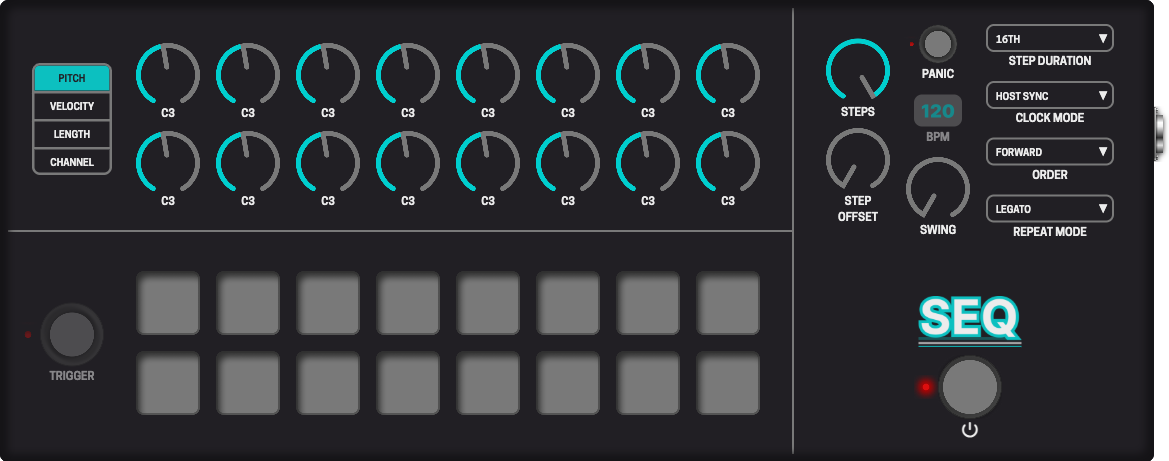
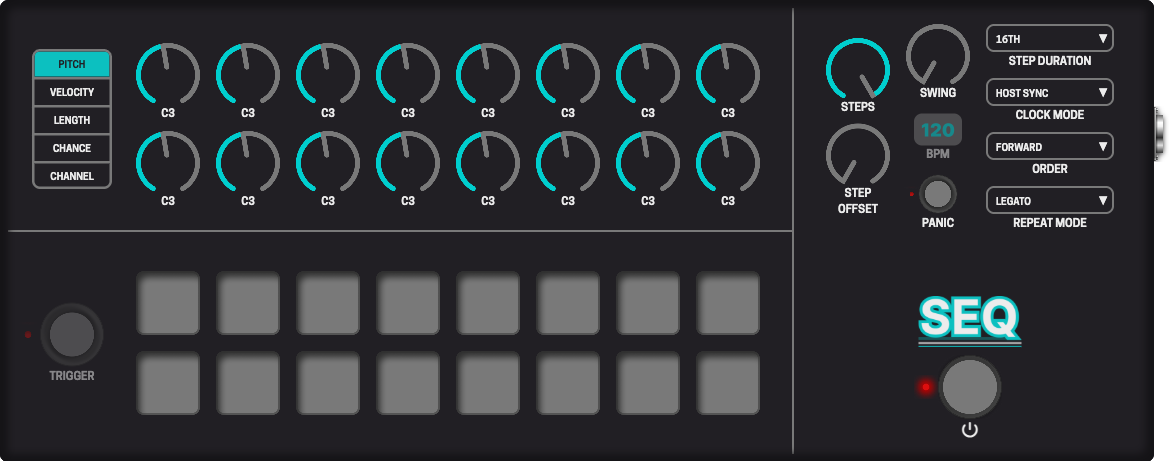
Reorder parameters in UI

Changed region(s): [[0.7083, 0.0304, 0.9547, 0.5163], [0.0308, 0.0911, 0.0924, 0.4252]]

diff --git a/lv2/dm-Seq.lv2/modgui/icon-dm-seq.html b/lv2/dm-Seq.lv2/modgui/icon-dm-seq.html
@@ -1256,7 +1256,7 @@
       </div>
     </div>
     <div class="column global-controls">
-      <div class="row gap-16 flex-1">
+      <div class="row gap-16">
         <div class="column align-self-center">
           <div class="mod-knob">
             <div
@@ -1276,15 +1276,13 @@
           </div>
         </div>
         <div class="column">
-          <div>
+          <div class="mod-knob">
             <div
-              class="mod-footswitch panic"
+              class="mod-knob-image"
               mod-role="input-control-port"
-              mod-port-symbol="panic"
-            >
-              <div class="mod-light"></div>
-            </div>
-            <div class="mod-param-title">PANIC</div>
+              mod-port-symbol="swing"
+            ></div>
+            <div class="mod-param-title">SWING</div>
           </div>
           <div class="mod-number-input">
             <div
@@ -1294,13 +1292,15 @@
             ></div>
             <div class="mod-param-title">BPM</div>
           </div>
-          <div class="mod-knob">
+          <div>
             <div
-              class="mod-knob-image"
+              class="mod-footswitch panic"
               mod-role="input-control-port"
-              mod-port-symbol="swing"
-            ></div>
-            <div class="mod-param-title">SWING</div>
+              mod-port-symbol="panic"
+            >
+              <div class="mod-light"></div>
+            </div>
+            <div class="mod-param-title">PANIC</div>
           </div>
         </div>
         <div class="column gap-8 justify-between">

diff --git a/lv2/dm-Seq.lv2/modgui/stylesheet-dm-seq.css b/lv2/dm-Seq.lv2/modgui/stylesheet-dm-seq.css
@@ -77,7 +77,6 @@
     justify-content: space-between;
     align-items: center;
     padding: 16px;
-    gap: 56px;
 }
 
 .mod-pedal{{{cns}}} .global-controls > .row > .column {
@@ -174,6 +173,9 @@
     pointer-events: none;
 }
 
+.mod-pedal{{{cns}}} .mod-knob .mod-param-title {
+    margin-top: -3px;
+}
 
 /* = FOOTSWITCH
 ================================================ */
@@ -225,7 +227,7 @@
     transform: scale(0.6);
 }
 .mod-pedal{{{cns}}} .mod-footswitch.panic + .mod-param-title {
-    margin-top: -10px;
+    margin-top: -11px;
 }
 
 /* = TOGGLE
@@ -270,7 +272,7 @@
 }
 
 .mod-pedal{{{cns}}} .mod-number-input > .mod-param-title {
-    margin-top: 2px;
+    margin-top: 0px;
 }
 
 /* = ENUMERATED LIST
